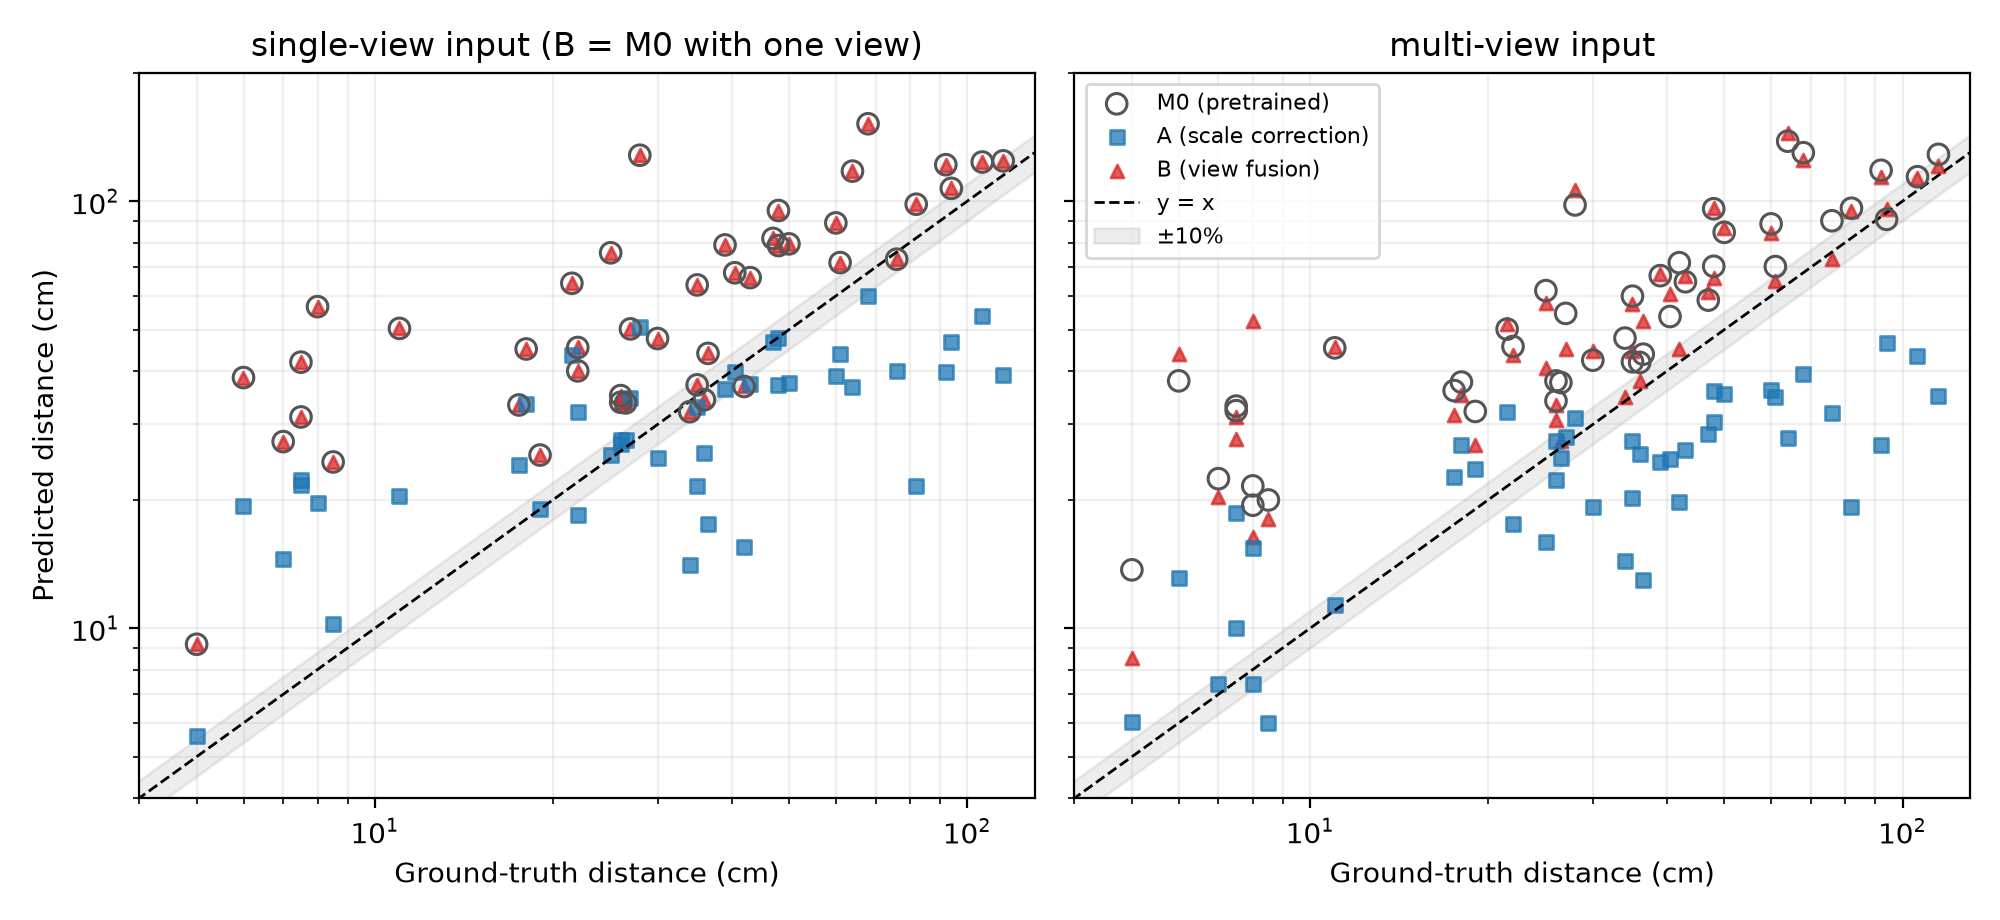
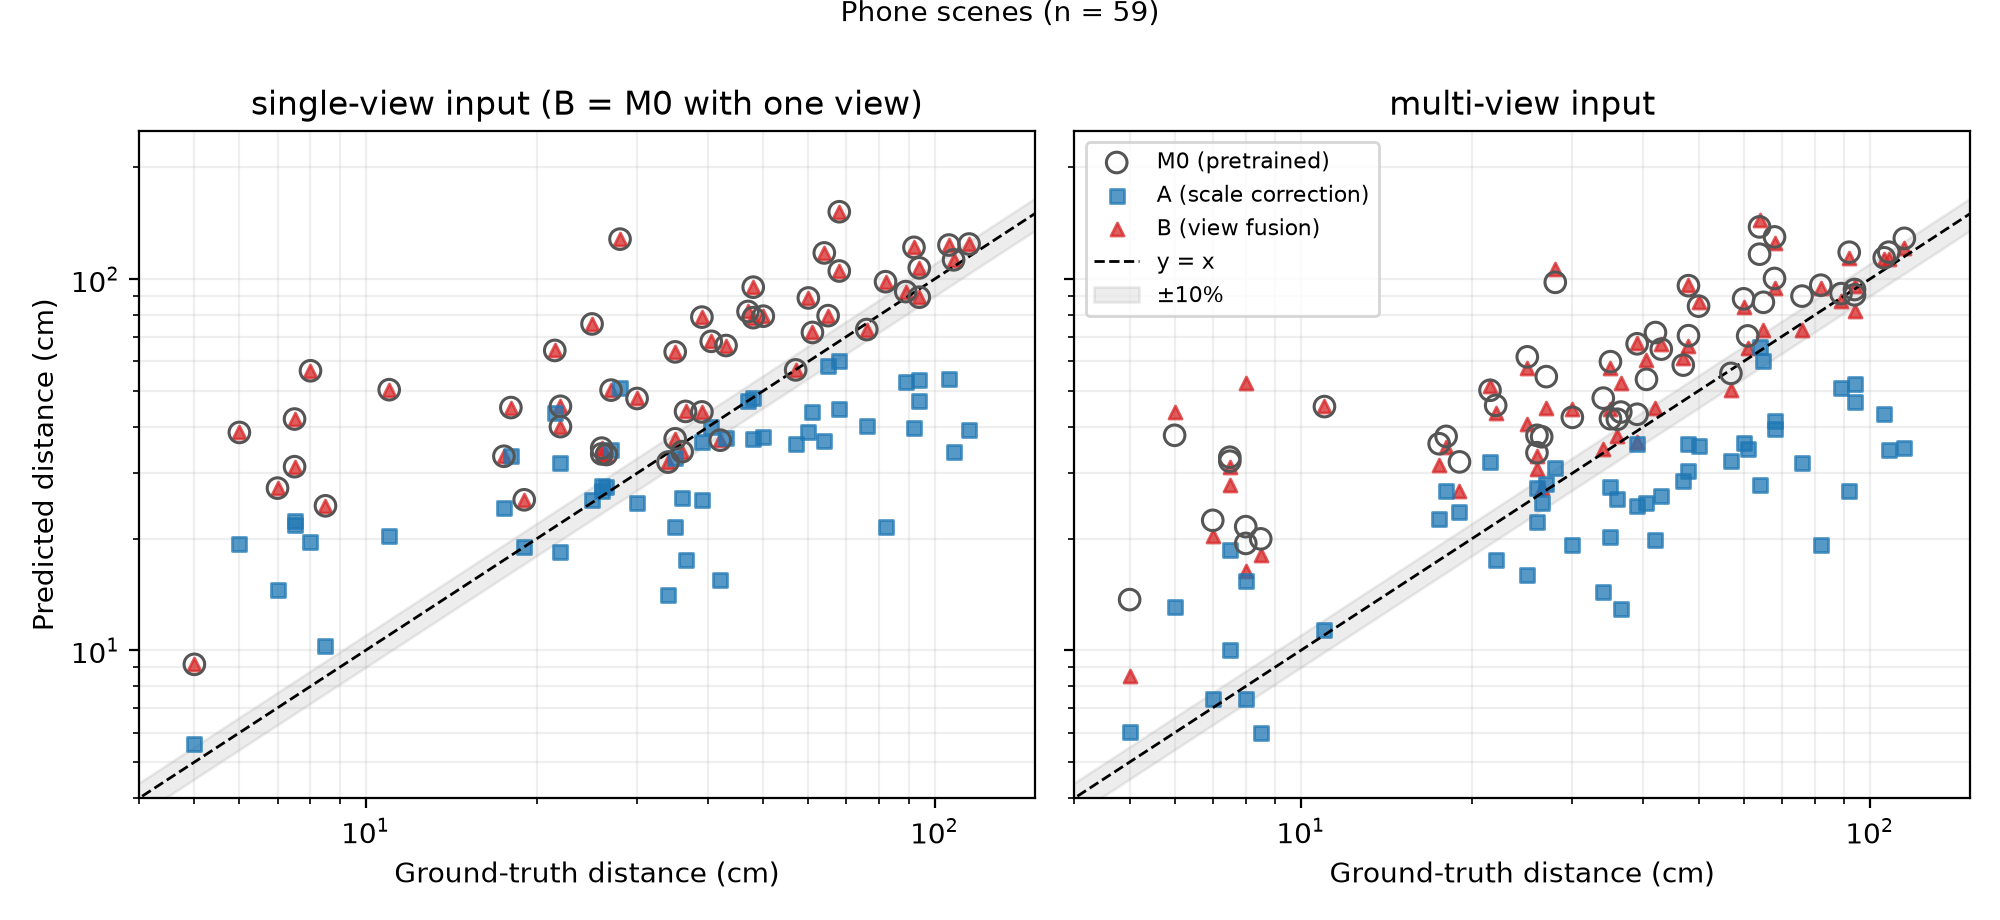
eval: phone results on 59 scenes, plot script

diff --git a/scripts/eval/plot_phone.py b/scripts/eval/plot_phone.py
@@ -1,0 +1,34 @@
+"""手机结果的预测距离 vs 真实距离散点图：bash scripts/local.sh scripts/eval/plot_phone.py"""
+import csv, matplotlib
+matplotlib.use("Agg")
+import matplotlib.pyplot as plt
+rows = [r for r in csv.DictReader(open("results/eval/phone_results.csv"))
+        if r["status"] == "ok" and r["valid"] == "True"]
+n = len({r["scene"] for r in csv.DictReader(open("results/eval/phone_results.csv"))})
+fig, axes = plt.subplots(1, 2, figsize=(10, 4.6), sharey=True)
+style = {"B": ("#d62728", "^", "B (view fusion)", 22),
+         "A": ("#1f77b4", "s", "A (scale correction)", 22),
+         "baseline": ("#555555", "o", "M0 (pretrained)", 55)}
+for ax, mode in zip(axes, ["single", "multi"]):
+    for m, (c, mk, label, size) in style.items():
+        pts = [(float(r["gt_cm"]), float(r["pred_cm"])) for r in rows if r["model"] == m and r["mode"] == mode]
+        if m == "baseline":
+            ax.scatter(*zip(*pts), s=size, facecolors="none", edgecolors=c, linewidths=1.1, marker=mk, label=label, zorder=3)
+        else:
+            ax.scatter(*zip(*pts), s=size, c=c, marker=mk, alpha=0.75, label=label, zorder=2)
+    ax.plot([3, 300], [3, 300], "k--", lw=1, label="y = x")
+    ax.fill_between([3, 300], [2.7, 270], [3.3, 330], color="k", alpha=0.07, label="±10%")
+    ax.set_xscale("log"); ax.set_yscale("log")
+    ax.set_xlim(4, 150); ax.set_ylim(4, 250)
+    ax.set_xlabel("Ground-truth distance (cm)")
+    ax.grid(True, which="both", alpha=0.2)
+axes[0].set_title("single-view input (B = M0 with one view)")
+axes[1].set_title("multi-view input")
+axes[0].set_ylabel("Predicted distance (cm)")
+h, l = axes[1].get_legend_handles_labels()
+order = [l.index(x) for x in ["M0 (pretrained)", "A (scale correction)", "B (view fusion)", "y = x", "±10%"]]
+axes[1].legend([h[i] for i in order], [l[i] for i in order], loc="upper left", fontsize=8)
+fig.suptitle(f"Phone scenes (n = {n})", y=1.0, fontsize=10)
+fig.tight_layout()
+fig.savefig("results/eval/phone_pred_vs_gt.pdf"); fig.savefig("results/eval/phone_pred_vs_gt.png", dpi=200)
+print("saved results/eval/phone_pred_vs_gt.pdf / .png")
